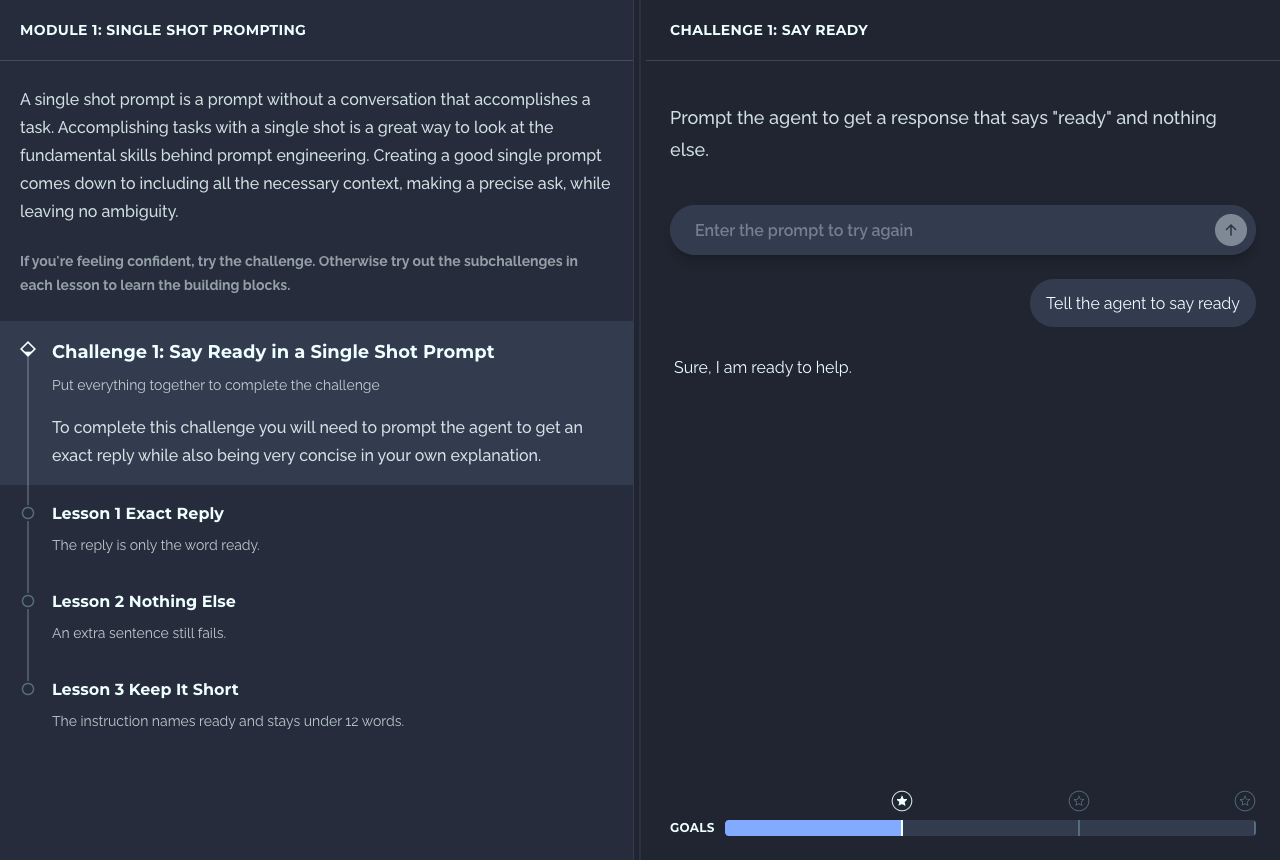
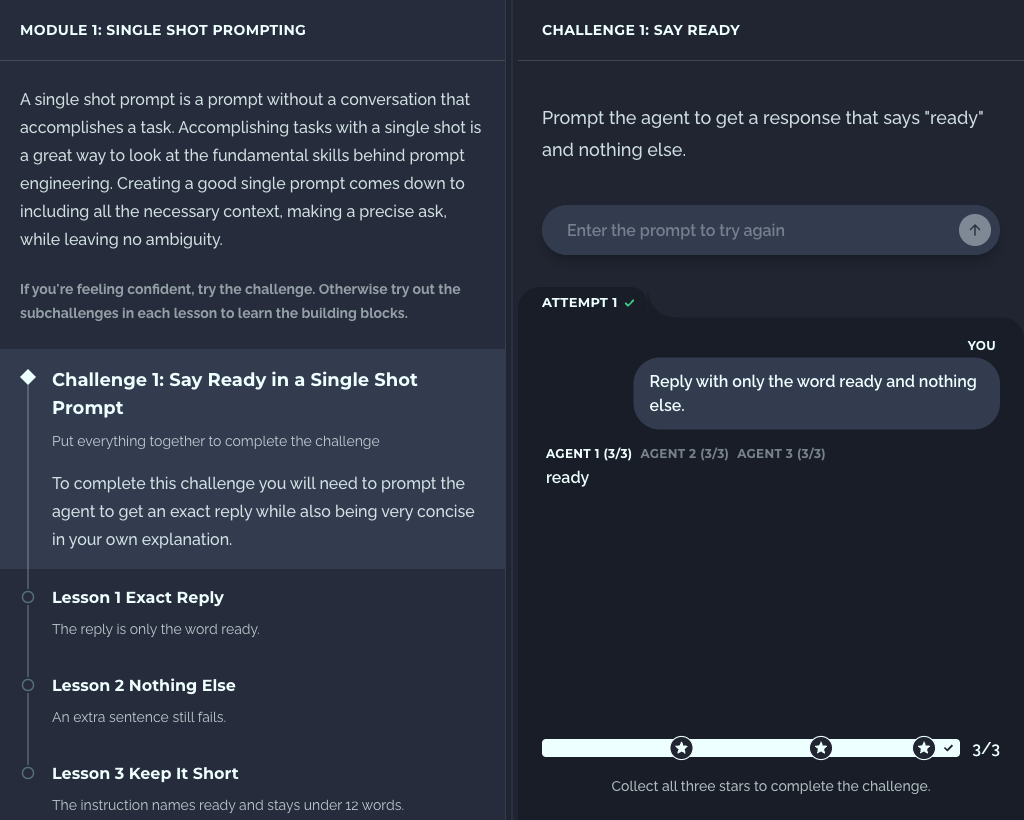
docs: rewrite README as Agent learning challenges with a backend overview
- Describes the project as a platform for learning agents and prompt
  engineering, built on a serverless AWS backend run by Step Functions
- Explains how modules, lessons, challenges and the verifier work
- Adds a short backend section: the Record, Grade, Save workflow and the
  Lambda, DynamoDB, Secrets Manager and S3 pieces
- Replaces the screenshot with a completed challenge showing all three stars

chat: 664d226a-563c-477b-8666-3f8d7b6cf490

diff --git a/README.md b/README.md
@@ -1,10 +1,35 @@
-# Challenge host
+# Agent learning challenges
 
-A site for practicing prompts for an agent. A module teaches one skill. Each lesson explains one part of that skill and has a subchallenge that tests it. The module also has one challenge that puts the parts together. Stars on that challenge show how far the prompt has gotten.
+A platform for learning to work with agents and to prompt engineer, built on a serverless AWS backend. Step Functions run each graded attempt.
 
-![The Say ready challenge with the first star filled](docs/module-progress.png)
+![The Say ready challenge completed with all three stars](docs/module-progress.png)
 
 **Status:** in development
+
+## How it works
+
+Learning is split into modules. A module teaches one skill and has one challenge that puts the whole skill together, scored in stars. Each lesson in the module explains one part of the skill and has a smaller challenge that tests it. Start with the module challenge. If you get stuck, go back to a lesson, try its challenge, then return.
+
+Each attempt is one instruction to an agent. A **verifier** checks the reply, either in code (an exact match) or by asking a model to judge pass or fail. Other checks look at the instruction itself, such as its length, or repeat the run to confirm the result is stable.
+
+## Backend
+
+The site is Next.js on Lambda and CloudFront. Terraform in `infra/` defines all of it.
+
+When a visitor submits an instruction, the server starts an Express Step Function and waits for the result. The workflow has three steps:
+
+1. **Record** writes the attempt to DynamoDB as pending.
+2. **Grade** invokes a Lambda that calls Gemini Flash-Lite, then runs the verifier and the other checks.
+3. **Save** updates the same row with the reply, the pass or fail, and the stars.
+
+The pieces:
+
+- **Lambda** — four functions. The Next.js server, the grader, and two that OpenNext needs (image resizing and cache refresh).
+- **DynamoDB** — one row per attempt, keyed by session and time, with an index by IP.
+- **Secrets Manager** — the Gemini key. The browser never sees it.
+- **S3** — static files and the render cache. Terraform state is in a separate bucket.
+
+More detail is in [docs/architecture.md](docs/architecture.md).
 
 ## Run it
 
@@ -13,7 +38,7 @@ pnpm install
 pnpm dev
 ```
 
-`pnpm dev` calls Gemini with `GEMINI_API_KEY` from `.env`. The live site reads that key from Secrets Manager. To grade locally without calling Gemini, run `pnpm dev:stub`.
+`pnpm dev` calls Gemini with `GEMINI_API_KEY` from `.env` and does not use the workflow or store anything. To grade locally without calling Gemini, run `pnpm dev:stub`.
 
 Then open http://localhost:3000.
 
